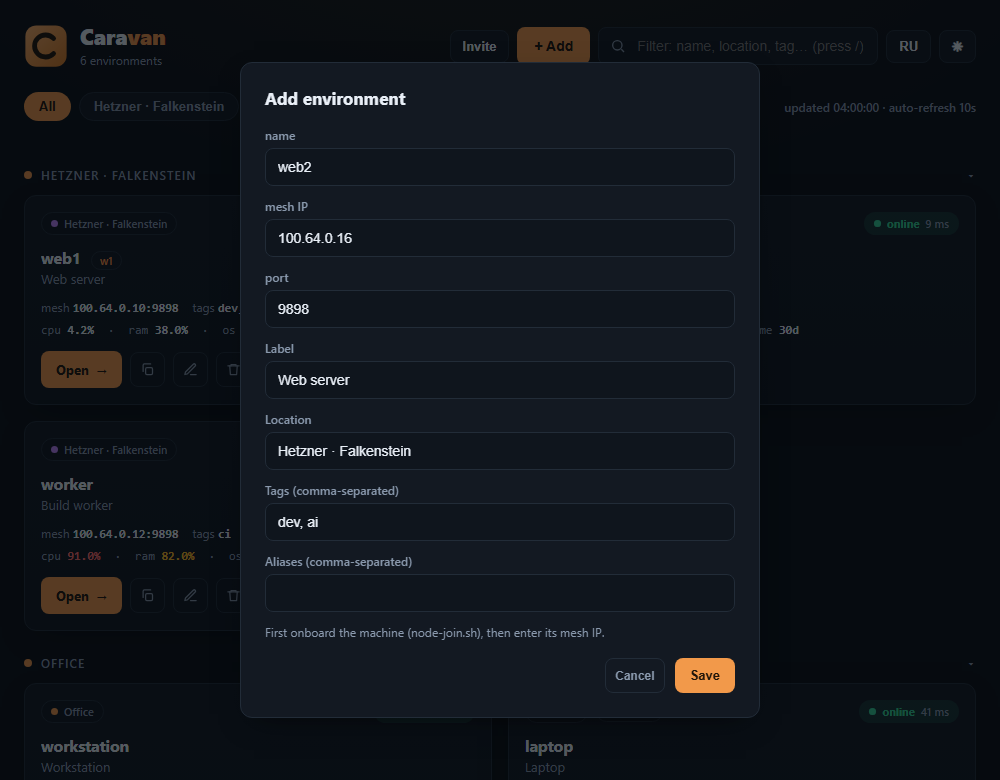
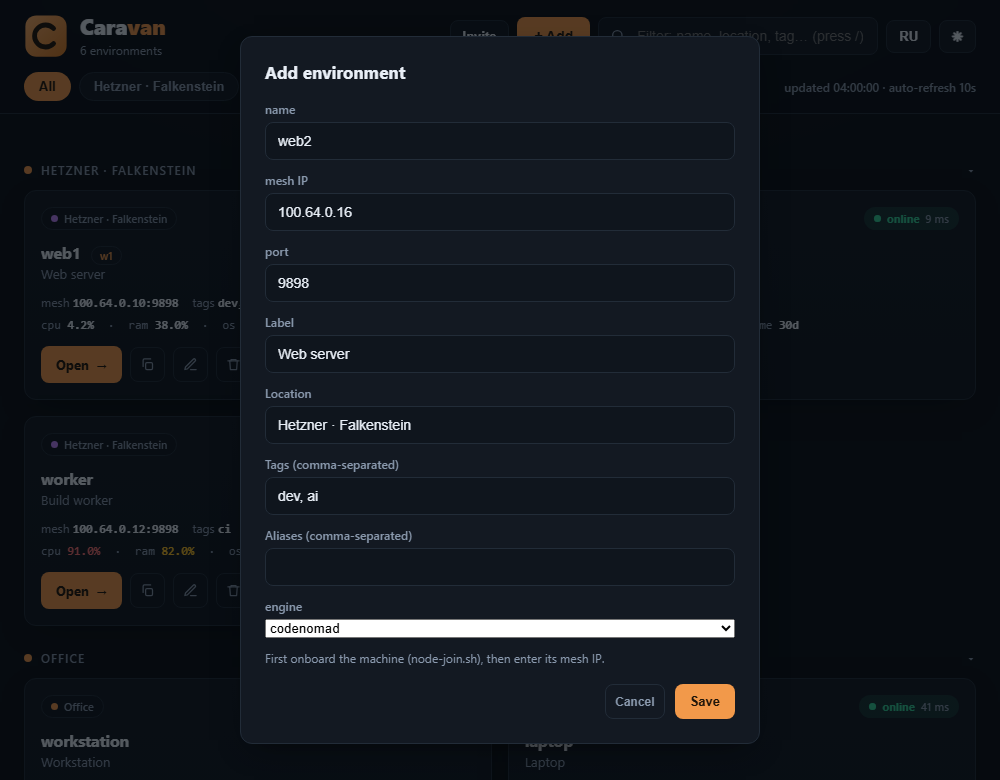
docs(landing): mention Windows nodes + refresh screenshots

diff --git a/docs/index.html b/docs/index.html
@@ -142,7 +142,7 @@ footer a:hover{color:var(--ink)}
     <div class="card"><div class="ico"><svg viewBox="0 0 24 24" fill="none" stroke="currentColor" stroke-width="2" stroke-linecap="round" stroke-linejoin="round"><rect x="3" y="4" width="18" height="7" rx="2"/><rect x="3" y="13" width="18" height="7" rx="2"/><path d="M7 7.5h.01M7 16.5h.01"/></svg></div><h3>Multi-machine by default</h3><p>One window to every dev box — home, office, VPS. Switch between them instantly, from anywhere.</p></div>
     <div class="card"><div class="ico"><svg viewBox="0 0 24 24" fill="none" stroke="currentColor" stroke-width="2" stroke-linecap="round" stroke-linejoin="round"><path d="M12 3l7 3v6c0 4-3 6.6-7 8-4-1.4-7-4-7-8V6z"/><path d="M9.3 12l1.9 1.9 3.5-3.6"/></svg></div><h3>Secure by default</h3><p>Default-deny firewall, SSO + TOTP, mesh-only nodes, root-only secrets. Hardening is built in, not a checklist.</p></div>
     <div class="card"><div class="ico"><svg viewBox="0 0 24 24" fill="none" stroke="currentColor" stroke-width="2" stroke-linecap="round" stroke-linejoin="round"><path d="M20.6 13.4l-7.2 7.2a2 2 0 0 1-2.8 0l-6.6-6.6V4h10l6.6 6.6a2 2 0 0 1 0 2.8z"/><circle cx="7.5" cy="7.5" r="1.3"/></svg></div><h3>Private &amp; cheap</h3><p>Runs on a ~$3 VPS (1 vCPU / 2 GB). No SaaS, no telemetry — your code stays on your infra.</p></div>
-    <div class="card"><div class="ico"><svg viewBox="0 0 24 24" fill="none" stroke="currentColor" stroke-width="2" stroke-linecap="round" stroke-linejoin="round"><rect x="3" y="4" width="18" height="16" rx="2"/><path d="M7 9l3 3-3 3M13 15h4"/></svg></div><h3>One command</h3><p>Idempotent <span class="mono">install.sh</span> for the hub and <span class="mono">node-join.sh</span> for machines. Update and diagnose with the <span class="mono">caravan</span> CLI.</p></div>
+    <div class="card"><div class="ico"><svg viewBox="0 0 24 24" fill="none" stroke="currentColor" stroke-width="2" stroke-linecap="round" stroke-linejoin="round"><rect x="3" y="4" width="18" height="16" rx="2"/><path d="M7 9l3 3-3 3M13 15h4"/></svg></div><h3>One command</h3><p>Idempotent <span class="mono">install.sh</span> for the hub and <span class="mono">node-join.sh</span> (Linux) / <span class="mono">node-join.ps1</span> (Windows) for machines. Update and diagnose with the <span class="mono">caravan</span> CLI.</p></div>
   </div>
 </div></section>
 
@@ -171,7 +171,10 @@ footer a:hover{color:var(--ink)}
   <div class="grid flow">
     <div class="step"><div class="n">1</div><h3>Hub</h3><pre>curl -fsSL .../caravan/main/install.sh | sudo bash</pre></div>
     <div class="step"><div class="n">2</div><h3>A machine</h3><pre>curl -fsSL .../node-join.sh | sudo bash -s -- \
-  --hub https://mesh.example.com --token &lt;key&gt;</pre></div>
+  --hub https://mesh.example.com --token &lt;key&gt;
+
+<span class="c"># Windows (PowerShell, as Administrator):</span>
+.\node-join.ps1 -Hub https://mesh.example.com -Token &lt;key&gt;</pre></div>
     <div class="step"><div class="n">3</div><h3>Register</h3><pre>sudo caravan add-node \
   --name web1 --ip &lt;mesh-ip&gt;</pre></div>
   </div>
@@ -183,6 +186,7 @@ footer a:hover{color:var(--ink)}
   <details open><summary>Do I need a domain?</summary><p>No. Use <span class="mono">--sslip</span> (a working name from your IP) or <span class="mono">--self-signed</span> for testing. A domain is best for production.</p></details>
   <details><summary>Do my machines need public IPs or open ports?</summary><p>No. Nodes dial <b>out</b> to the hub over a WireGuard mesh — nothing to expose.</p></details>
   <details><summary>Is my code sent anywhere?</summary><p>No. Everything runs on your own infrastructure. Caravan has no telemetry.</p></details>
+  <details><summary>Does it work on Windows machines?</summary><p>Yes. The hub runs on Linux (Ubuntu/Debian), but nodes can be Linux or Windows 10/11 — use <span class="mono">node-join.ps1</span> in PowerShell (as Administrator) on Windows.</p></details>
   <details><summary>Is it free?</summary><p>Yes — MIT. A managed cloud and team features are planned (open-core).</p></details>
   <details><summary>Is it affiliated with OpenCode / CodeNomad?</summary><p>No. Caravan consumes them as dependencies and credits them. Not affiliated with NeuralNomadsAI or the OpenCode team.</p></details>
 </div></section>
